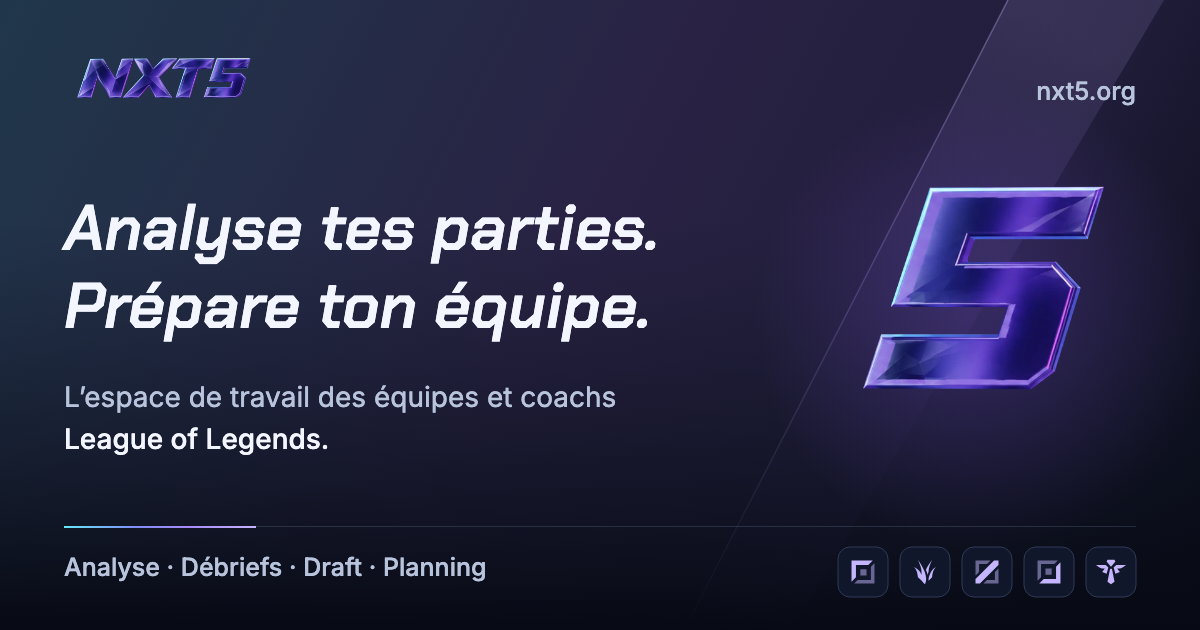
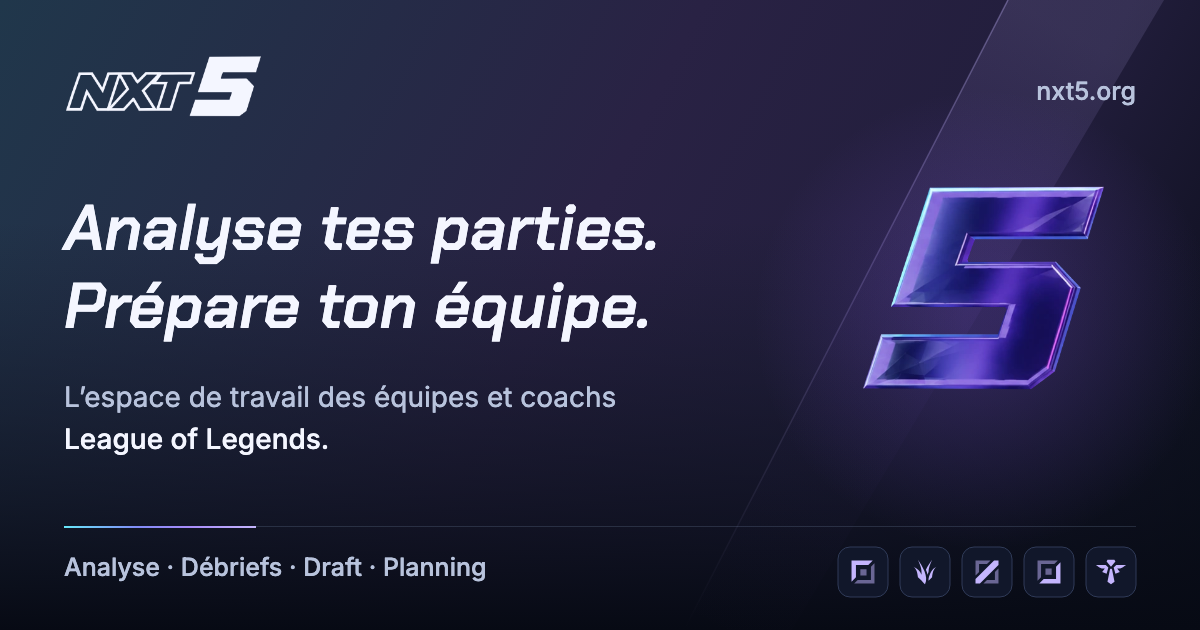
Apply luminous NXT5 identity and approved mobile composition

Changed region(s): [[0.0617, 0.0905, 0.2158, 0.181]]

diff --git a/src/pages/workspace/GameWorkspace.jsx b/src/pages/workspace/GameWorkspace.jsx
@@ -108,7 +108,7 @@ async function renderStatsPng({ title, subtitle, matches, team, categories = [],
     const urls = [...new Set((Array.isArray(sources) ? sources : [sources]).filter(Boolean))].slice(0, 2);
     if (urls.length) imageGroups.set(JSON.stringify(urls), urls);
   };
-  addImageGroup("/assets/brand/prisme/nxt5-prisme-source.png");
+  addImageGroup("/assets/brand/prisme/nxt5-neon-mono-640.png");
   championLists.flat().forEach(([champion]) => addImageGroup(championPortraitSources(champion, champion)));
   await Promise.all([...imageGroups.values()].map(async (urls) => {
     for (const url of urls) {
@@ -130,7 +130,7 @@ async function renderStatsPng({ title, subtitle, matches, team, categories = [],
     const image = (Array.isArray(sources) ? sources : [sources]).map((url) => imageCache.get(url)).find(Boolean);
     if (image) pngImageCover(ctx, image, x, y, size, size, radius);
   };
-  const header = () => pngHeader(ctx, { width: W, margin: M, title: title || "Groupe de games", eyebrow: "Groupe de games", subtitle: [teamName, pngDateRange(scoped), subtitle].filter(Boolean).filter((value, index, list) => list.indexOf(value) === index).join(" · "), logo: imageCache.get("/assets/brand/prisme/nxt5-prisme-source.png") });
+  const header = () => pngHeader(ctx, { width: W, margin: M, title: title || "Groupe de games", eyebrow: "Groupe de games", subtitle: [teamName, pngDateRange(scoped), subtitle].filter(Boolean).filter((value, index, list) => list.indexOf(value) === index).join(" · "), logo: imageCache.get("/assets/brand/prisme/nxt5-neon-mono-640.png") });
   const measures = [["Kills", "kills", 1], ["Morts", "deaths", 1], ["Assists", "assists", 1], ["Or", "gold", 0], ["Dégâts champions", "damage", 0], ["Score de vision", "vision", 1]].map(([label, key, digits]) => {
     const pairs = paired(key);
     return { label, digits, count: pairs.length, ally: pngMean(pairs.map((pair) => pair.ally)), enemy: pngMean(pairs.map((pair) => pair.enemy)), diff: pngMean(pairs.map((pair) => pair.ally - pair.enemy)) };

diff --git a/src/pages/home/home-motion.css b/src/pages/home/home-motion.css
@@ -126,13 +126,12 @@
   top: 0;
   isolation: isolate;
   overflow: hidden;
-  background: #10172b;
+  background: #0d1234;
 }
 .hm-atmosphere {
   position: absolute;
   inset: -4%;
-  background: url("/assets/home-motion/atmosphere.webp") center center/cover
-    no-repeat;
+  background: radial-gradient(ellipse at 75% 48%, #27205c 0%, #141843 39%, #0c1230 74%, #080e25 100%);
   will-change: transform;
   z-index: 0;
 }
@@ -157,7 +156,7 @@
   z-index: 2;
   will-change: transform, opacity;
   transform-origin: 80% 50%;
-  filter: drop-shadow(0 0 5px #a5b4fc40);
+  filter: drop-shadow(0 0 4px #a5b4fca0);
 }
 .hm-outline {
   display: block;
@@ -194,7 +193,7 @@
   );
   pointer-events: none;
   transform-origin: 50% 70%;
-  opacity: 0.32;
+  opacity: 0.12;
   will-change: transform, opacity;
 }
 .hm-ground-shade {
@@ -644,14 +643,14 @@
   }
   .hm-outline-wrap {
     left: 3%;
-    width: 58%;
-    top: 25%;
+    width: 76%;
+    top: 13%;
   }
   .hm-glass-wrap {
-    width: 46%;
-    right: -1%;
-    top: 7%;
-    height: 49%;
+    width: 88%;
+    right: -5%;
+    top: 11%;
+    height: 65%;
     margin-right: 0;
   }
   .hm-scroll-cue {
@@ -666,6 +665,16 @@
     right: 0%;
     top: 4%;
     height: 77%;
+  }
+}
+@media (max-width: 340px) {
+  .hm-outline-wrap {
+    top: 12%;
+  }
+  .hm-glass-wrap {
+    width: 78%;
+    height: 55%;
+    top: 13%;
   }
 }
 .hm-short .hm-journey {

diff --git a/src/pages/workspace/TrendsPage.jsx b/src/pages/workspace/TrendsPage.jsx
@@ -130,7 +130,7 @@ export async function renderTrendsPng({ matches = [], teamName = "Notre équipe"
   const coverage = (count, games = report.games) => `${pngNumber(count)} / ${pngNumber(games)} games`;
   const signedGold = report.gold.value === null ? "—" : `${report.gold.value > 0 ? "+" : ""}${pngNumber(report.gold.value)}`;
   const imageCache = new Map();
-  const imageUrls = new Set(["/assets/brand/prisme/nxt5-prisme-source.png"]);
+  const imageUrls = new Set(["/assets/brand/prisme/nxt5-neon-mono-640.png"]);
   const roleAssets = { TOP: "top", JGL: "jungle", MID: "middle", ADC: "bottom", SUP: "utility" };
   report.roles.forEach(({ role }) => { if (roleAssets[role]) imageUrls.add(`/assets/roles/position-${roleAssets[role]}.svg`); });
   champions.forEach((entry) => championPortraitSources(entry.champion, entry.champion).forEach((url) => imageUrls.add(url)));
@@ -142,7 +142,7 @@ export async function renderTrendsPng({ matches = [], teamName = "Notre équipe"
     title: teamName,
     subtitle: `${categoryName} · ${periodLabel} · ${pngDateRange(matches)}`,
     eyebrow: "Tendances d’équipe",
-    logo: imageCache.get("/assets/brand/prisme/nxt5-prisme-source.png"),
+    logo: imageCache.get("/assets/brand/prisme/nxt5-neon-mono-640.png"),
     meta: `${pngNumber(report.games)} games`,
   });
   pngMetricStrip(ctx, { x: margin, y: 200, width: contentWidth, items: [

diff --git a/src/components/brand/PrismeScene.jsx b/src/components/brand/PrismeScene.jsx
@@ -4,9 +4,9 @@ import "./prisme-scene.css";
 export default function PrismeScene({ className = "", posterClassName = "", signature = false }) {
   return <div className={`nxt5-prisme-scene ${className}`} aria-hidden="true">
     <img className={`nxt5-prisme-poster ${posterClassName}`}
-      src={signature ? "/assets/brand/prisme/nxt5-prisme-1280.webp" : "/assets/brand/prisme/nxt5-prisme-5-512.webp"}
-      srcSet={signature ? "/assets/brand/prisme/nxt5-prisme-640.webp 640w, /assets/brand/prisme/nxt5-prisme-1280.webp 1280w" : "/assets/brand/prisme/nxt5-prisme-5-256.webp 256w, /assets/brand/prisme/nxt5-prisme-5-512.webp 512w"}
+      src={signature ? "/assets/brand/prisme/nxt5-neon-1280.webp" : "/assets/brand/prisme/nxt5-prisme-5-512.webp"}
+      srcSet={signature ? "/assets/brand/prisme/nxt5-neon-640.webp 640w, /assets/brand/prisme/nxt5-neon-1280.webp 1280w" : "/assets/brand/prisme/nxt5-prisme-5-256.webp 256w, /assets/brand/prisme/nxt5-prisme-5-512.webp 512w"}
       sizes={signature ? "(max-width: 760px) 92vw, 54vw" : "(max-width: 760px) 60vw, 440px"}
-      width={signature ? 1536 : 512} height={signature ? 432 : 512} alt="" decoding="async" draggable="false" />
+      width={signature ? 1600 : 512} height={signature ? 600 : 512} alt="" decoding="async" draggable="false" />
   </div>;
 }

diff --git a/netlify/functions/_lib/email.ts b/netlify/functions/_lib/email.ts
@@ -74,7 +74,7 @@ export async function sendEmailVerificationEmail({ to, token }) {
                     <div style="height:6px;background:#7c3aed"></div>
                     <div style="padding:36px 34px 32px">
                       <div style="display:inline-block;margin:0 0 22px;padding:7px 12px;border:1px solid rgba(103,232,249,.32);border-radius:999px;background:rgba(8,145,178,.16);color:#a5f3fc;font-size:12px;font-weight:900;letter-spacing:.09em;text-transform:uppercase">Vérification e-mail</div>
-                      <img src="${htmlSiteUrl}/assets/brand/prisme/nxt5-prisme-mono-640.png" alt="NXT5" width="180" height="51" style="display:block;margin:0 0 24px;border:0" />
+                      <img src="${htmlSiteUrl}/assets/brand/prisme/nxt5-neon-mono-640.png" alt="NXT5" width="176" height="66" style="display:block;margin:0 0 24px;border:0" />
                       <h1 style="margin:0;color:#ffffff;font-size:32px;line-height:1.08;font-weight:900">Active ton accès NXT5</h1>
                       <p style="margin:18px 0 0;color:#dbeafe;font-size:16px;line-height:1.7">Bienvenue sur NXT5. Confirme cette adresse e-mail pour sécuriser ton compte et recevoir les notifications importantes de ton équipe.</p>
 

diff --git a/src/components/brand/BrandAssets.jsx b/src/components/brand/BrandAssets.jsx
@@ -16,8 +16,8 @@ export function ResponsiveImage({ src, sources = [], alt, className = "", fetchP
   );
 }
 
-const LOGO = { src: "/assets/brand/prisme/nxt5-prisme-source.png", srcSet: "/assets/brand/prisme/nxt5-prisme-640.webp 640w, /assets/brand/prisme/nxt5-prisme-320.webp 320w", width: "1536", height: "432" };
-const MONO = "/assets/brand/prisme/nxt5-prisme-mono-blanc.svg";
+const LOGO = { src: "/assets/brand/prisme/nxt5-neon-source.png", srcSet: "/assets/brand/prisme/nxt5-neon-640.webp 640w, /assets/brand/prisme/nxt5-neon-320.webp 320w", width: "1600", height: "600" };
+const MONO = "/assets/brand/prisme/nxt5-neon-mono-blanc.svg";
 const ICON = { src: "/assets/brand/prisme/icon-512.png", width: "512", height: "512" };
 
 export function BrandLogo({ compact = false, className = "" }) {

diff --git a/src/pages/workspace/PlayerUltimateProfile.jsx b/src/pages/workspace/PlayerUltimateProfile.jsx
@@ -108,7 +108,7 @@ async function renderPlayerProfilePng({ player, rows = [], category = "Toutes le
   const { canvas, ctx } = pngCreateCanvas(W, H);
   const fit = (text, x, y, maxWidth, options = {}) => pngFitText(ctx, text, x, y, maxWidth, { font: "500 22px Inter, Arial, sans-serif", min: 20, ...options });
   const images = new Map();
-  const logoPromise = pngLoadImage("/assets/brand/prisme/nxt5-prisme-source.png");
+  const logoPromise = pngLoadImage("/assets/brand/prisme/nxt5-neon-mono-640.png");
   const roleAsset = { TOP: "top", JGL: "jungle", MID: "middle", ADC: "bottom", SUP: "utility" }[normalizeProfileRole(player?.role)];
   const roleImagePromise = roleAsset ? pngLoadImage(`/assets/roles/position-${roleAsset}.svg`) : null;
   await Promise.all(champions.map(async (stat) => {

diff --git a/src/__tests__/publication-render.test.ts b/src/__tests__/publication-render.test.ts
@@ -56,7 +56,7 @@ describe('single game publication PNG for downloads and Discord', () => {
     const snapshot = buildGamePublicationSnapshot(publicationFixture({ side }));
     const server = await renderGamePublicationPng(snapshot);
     const browser = await renderGamePublicationCanvas(snapshot, {
-      createCanvas, loadLogo: () => loadImage('public/assets/brand/prisme/nxt5-prisme-source.png'),
+      createCanvas, loadLogo: () => loadImage('public/assets/brand/prisme/nxt5-neon-mono-640.png'),
       loadAssets: data => loadGamePublicationAssets(data, async () => icon, { loadObjectiveImage: url => loadImage(`public${url}`) }),
     });
     expect([server.width, server.height]).toEqual([browser.width, browser.height]);

diff --git a/src/pages/workspace/workspace-shared.jsx b/src/pages/workspace/workspace-shared.jsx
@@ -168,7 +168,7 @@ async function renderChampionTierListPng({ player, rows = [], rowsByTier, catego
   const { canvas, ctx } = pngCreateCanvas(W, H);
   const fit = (text, x, y, maxWidth, options = {}) => pngFitText(ctx, text, x, y, maxWidth, { font: "500 22px Inter, Arial, sans-serif", min: 20, ...options });
   const images = new Map();
-  const logoPromise = pngLoadImage("/assets/brand/prisme/nxt5-prisme-source.png");
+  const logoPromise = pngLoadImage("/assets/brand/prisme/nxt5-neon-mono-640.png");
   await Promise.all(entries.map(async ({ row }) => {
     const sources = championPortraitSources(row, row?.champion);
     let portrait = null;

diff --git a/src/pages/admin/GlobalStatsPage.jsx b/src/pages/admin/GlobalStatsPage.jsx
@@ -18,7 +18,7 @@ export async function exportGlobalStats(data,mode,format="portrait") {
   await document.fonts?.ready;
   const height=format==="story" ? 1920:1350;
   const {canvas,ctx}=pngCreateCanvas(1080,height);
-  const logo=await pngLoadImage("/assets/brand/prisme/nxt5-prisme-source.png");
+  const logo=await pngLoadImage("/assets/brand/prisme/nxt5-neon-mono-640.png");
   pngBackground(ctx,1080,height);
   pngHeader(ctx,{width:1080,title:modeLabel(mode),subtitle:t("Les tendances de l’échantillon NXT5"),logo});
   pngFitText(ctx,periodLabel(data),64,248,952,{font:"500 22px Inter, Arial, sans-serif",color:"#CBD5E1"});

diff --git a/shared/publications/game-publication-browser.js b/shared/publications/game-publication-browser.js
@@ -21,7 +21,7 @@ export async function renderGamePublicationPng(snapshot, { loadAssets = (data) =
   await prepareFonts();
   const { canvas } = await renderGamePublicationCanvas(snapshot, {
     createCanvas(width, height) { const canvas = document.createElement('canvas'); canvas.width = width; canvas.height = height; return canvas; },
-    loadLogo: () => pngLoadImage('/assets/brand/prisme/nxt5-prisme-source.png'),
+    loadLogo: () => pngLoadImage('/assets/brand/prisme/nxt5-neon-mono-640.png'),
     loadAssets,
   });
   return canvas;

diff --git a/netlify/functions/_lib/publication-render.ts b/netlify/functions/_lib/publication-render.ts
@@ -30,7 +30,7 @@ function prepareFont() {
 async function bundledLogo() {
   if (!logoPromise) {
     // Netlify included_files preserves this path. Never fetch a URL from a snapshot.
-    const filename = path.join(process.cwd(), 'public/assets/brand/prisme/nxt5-prisme-source.png');
+    const filename = path.join(process.cwd(), 'public/assets/brand/prisme/nxt5-neon-mono-640.png');
     logoPromise = readFile(filename).then((bytes) => loadImage(bytes));
     logoPromise.catch(() => { logoPromise = undefined; });
   }
